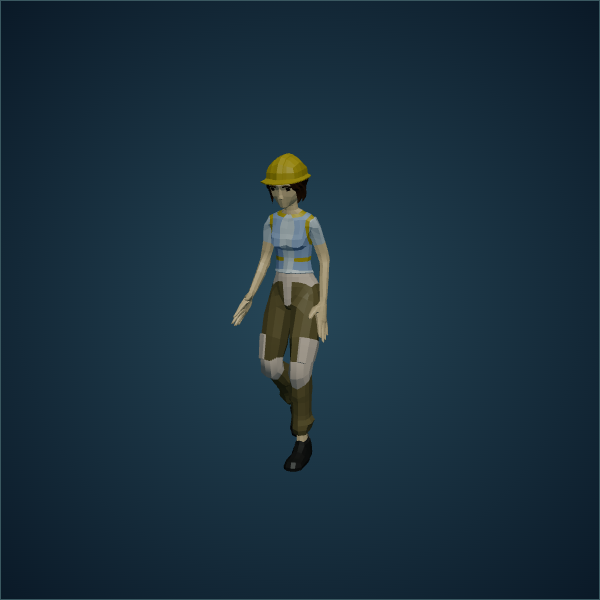
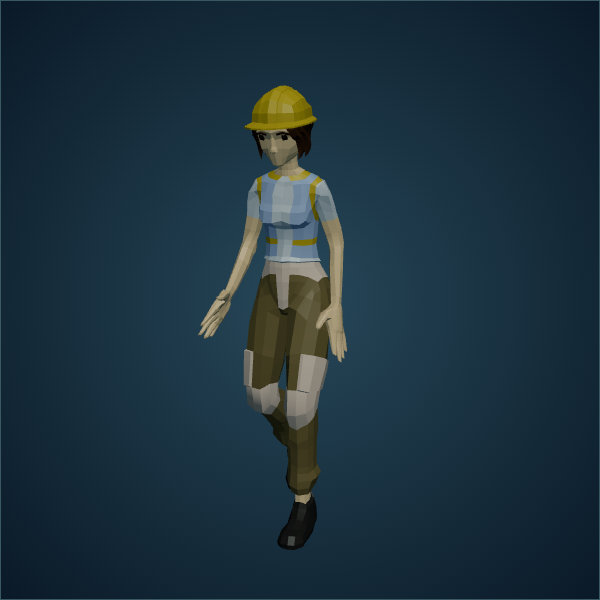
test(visual): verify sidebar portrait fit and playback

Changed region(s): [[0.33, 0.12, 0.6, 0.93]]

diff --git a/docs/BLENDER_CHARACTER_ANIMATION_POC.md b/docs/BLENDER_CHARACTER_ANIMATION_POC.md
@@ -36,17 +36,11 @@ In development builds, `window.__shadowCityV5CharacterPreview` on a selected pro
 
 Key comparisons: [original suit walk](screenshots/animation-poc/before-citizen-0010-portrait-walk.png), [retargeted suit walk](screenshots/animation-poc/after-citizen-0010-portrait-walk.png), [walk phase](screenshots/animation-poc/after-citizen-0010-Walk-0.55.png), [sitting pose preview](screenshots/animation-poc/after-citizen-0010-SitIdle-0.3.png), and [in-world overhead](screenshots/animation-poc/after-world-ground-tick450-overhead-1440x900.png). The [original in-world overhead](screenshots/animation-poc/before-world-ground-tick450-overhead-1440x900.png) uses the same location and camera. All four sampled presets have individual before/after portrait captures.
 
-| Chrome 1440×900, 200 residents | Original | Four-person proof |
-| --- | ---: | ---: |
-| Average FPS during 3 s sample | 54.3 | 54.5 |
-| p95 CPU frame interval | 52.4 ms | 47.6 ms |
-| p95 character manager update | 0.6 ms | 1.4 ms |
-| Average submitted WebGL draw calls/frame | 175.1 | 175.0 |
-| Average submitted triangles/frame | 229,115 | 229,062 |
-| Close rigs / active instances | 10 / 34 | 10 / 34 |
-| Texture object count, p95 | 61 | 73 |
+The left Population Inspector portrait was then enlarged from 138 px to a responsive 184–220 px height and reframed around the full character. [Desktop sidebar](screenshots/animation-poc/after-sidebar-1440x900.png) and [narrow sidebar](screenshots/animation-poc/after-sidebar-390x844.png) screenshots show the head and feet inside the actual panel. The portrait now samples displayed Tick interpolation every rendered frame while playback is active; browser instrumentation confirmed its clip time advances within a Tick and stays fixed while paused. Its position still comes from the selected resident's simulation state, and the portrait itself stays at a local display origin.
 
-The four supplemental GLBs took 385.1 ms total to load, parse, and prepare on this local run; each localhost transfer was 12.0–15.4 ms. See [metrics.json](screenshots/animation-poc/metrics.json) for raw results. This is a single-machine proof with run-to-run variation, not a stable cross-device performance claim. Both variants had no page errors. Pause held Tick 114, replay restored the selected resident's exact state at Tick 100, camera bearing/pitch preserved the simulation fingerprint, and 2× playback advanced about five Ticks during the measured interval.
+In the final 3-second Chrome run, the proof variant averaged 52.7 FPS with a 53.7 ms p95 CPU frame interval; the original variant averaged 29.2 FPS with an 80.5 ms p95 interval. Earlier runs varied substantially, so this is **not evidence of a performance gain**. Both variants submitted about 187 WebGL draw calls and 236,000 triangles per frame, with 10 close rigs and 34 active character instances. The proof character-manager update cost had a 1.0 ms p95. Four supplemental GLBs took 1,155.8 ms total to fetch, parse, and prepare in this run. The continuously animated portrait adds a second actively rendered canvas while playing. See [metrics.json](screenshots/animation-poc/metrics.json) for the raw figures; GPU frame time and texture bytes were unavailable.
+
+Both variants had no browser errors. The portrait clock advanced within a Tick and froze after Pause. Replay restored the selected resident's exact state at Tick 100, camera bearing/pitch preserved the simulation fingerprint, and 2× playback advanced several Ticks during the measured interval.
 
 The test checks Pause, Resume, 2× speed, replay of the selected citizen, and camera bearing/pitch without changing the simulation fingerprint. The browser records `requestAnimationFrame` gaps and WebGL draw calls/triangles by wrapping draw APIs before app load. These are CPU-observed frame intervals and submitted geometry counts, **not** GPU frame time or GPU memory. `gl.info.memory.textures` is a texture object count, not texture bytes. Four additional GLBs add about 4.2 MB of transfer; the proof is opt-in and does not scale full skeletons to all residents.
 
